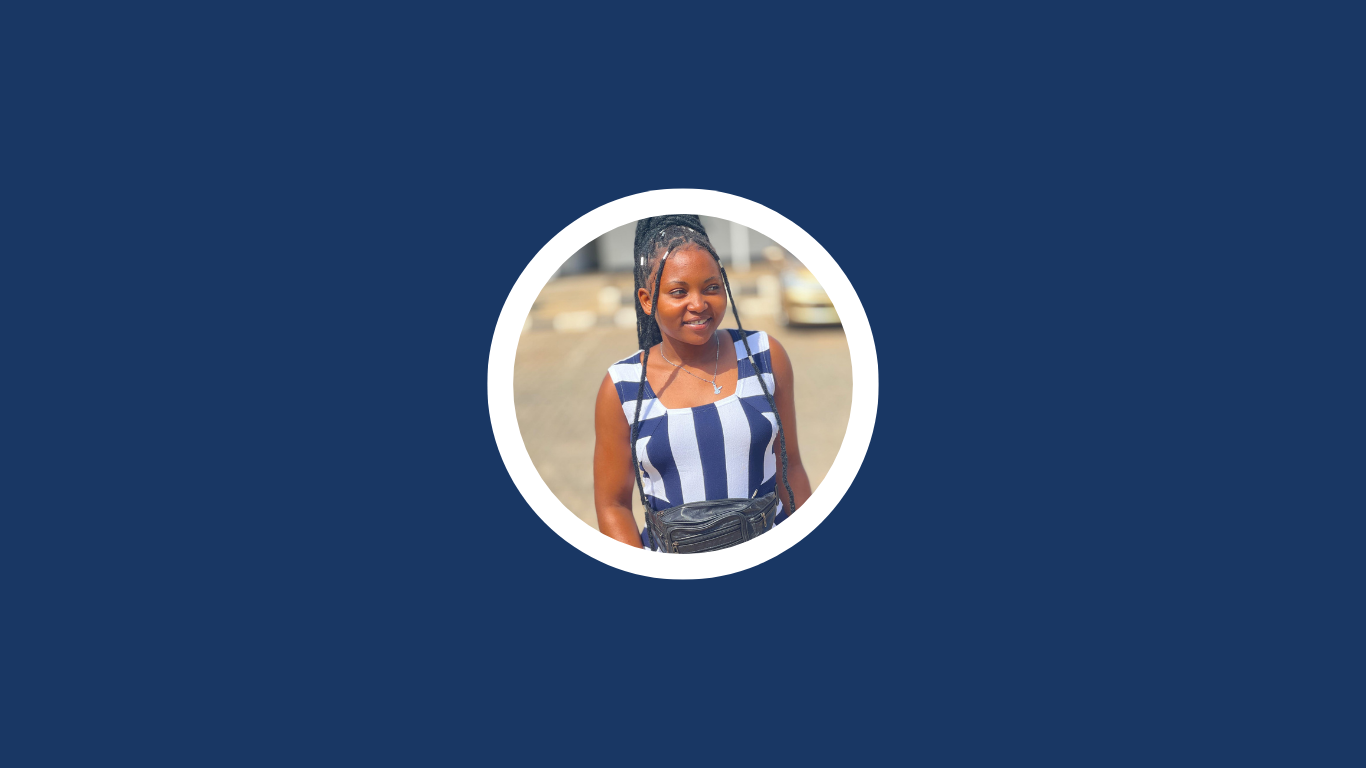
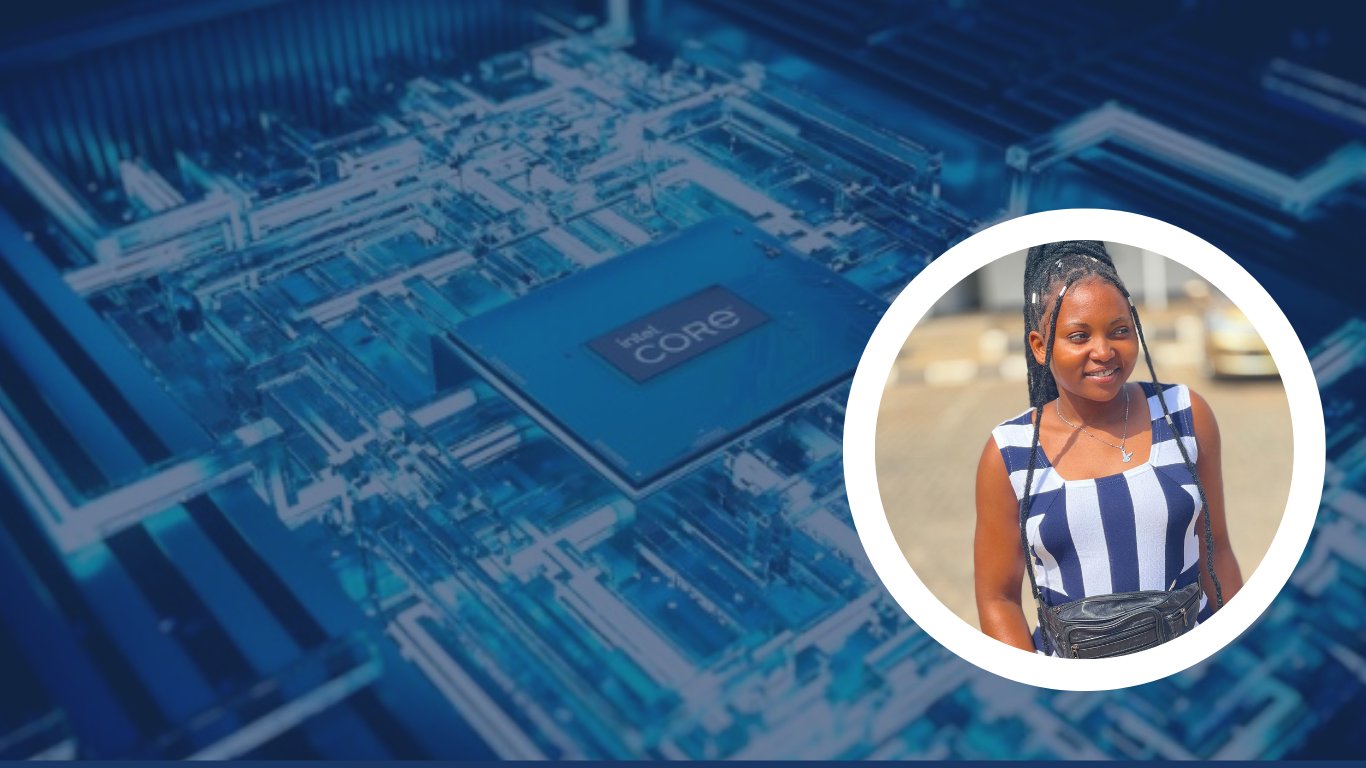
changed the styling of section 1 and the functionalities of the navigation elements

diff --git a/style.css b/style.css
@@ -4,34 +4,26 @@ body {
   font-family: Arial, Helvetica, sans-serif;
 }
 
-/* .first-screen-section {
-  height: 100vh;
-  background-image: url(images/background.png);
-  background-size: cover;
-  background-repeat: no-repeat;
-  background-position: center;
-  display: flex;
-  flex-direction: column;
-  justify-content: center;
-  
-} */
-
 .Hero-section {
   height: 100vh;
-  background-image: url(images/personal\ website.png);
+  background-image: url(images/page1.png);
   background-size: cover;
   background-repeat: no-repeat;
   background-position: center;
+  position: relative; /* Enables absolute nav */
   display: flex;
   flex-direction: column;
-  justify-content: space-between; /* Ensures top/middle/bottom layout */
-  padding: 40px 20px; /* Optional spacing */
+  justify-content: space-between;
   box-sizing: border-box;
 }
 
+/* Navigation stays at top */
 .main-nav {
+  position: absolute;
+  top: 20px;
+  right: 30px;
+  z-index: 10;
   text-align: right;
-  margin-top: 0px;
 }
 
 .main-nav a {
@@ -46,26 +38,38 @@ body {
   color: #4CAF50;
 }
 
+/* Wrapper for hero texts */
+.hero-text-wrapper {
+  display: flex;
+  flex-direction: column;
+  justify-content: center;
+  align-items: flex-start;
+  padding: 120px 20px 0 80px;
+  max-width: 700px;
+  box-sizing: border-box;
+}
+
+/* Bold and large h1 */
 .h1-of-section {
-  text-align: center;
+  text-align: left;
+  font-size: 5.2em;
+  font-weight: 700;
   color: white;
-  font-size: 2.5em;
-  margin-top: 0px;
-  margin-bottom: 0px;
-  
+  margin: 0 0 0.4em 0;
 }
 
-
-
-
+/* Clean multi-line h2 */
 .h2-of-section {
-  text-align: center;
+  text-align: left;
+  font-size: 3.2em;
+  font-weight: 400;
+  line-height: 1.4;
   color: white;
-  font-size: 1.5em;
-  margin-top: 0px;
-  margin-bottom: 300px;
+  margin: 0 0 2em 0;
+  white-space: pre-line;
 }
 
+/* Footer button stays at bottom */
 .bottom-buttons {
   width: 100%;
   display: flex;
@@ -73,6 +77,7 @@ body {
   padding: 30px 20px;
   box-sizing: border-box;
   background-color: transparent;
+  margin-top: auto;
 }
 
 .custom-btn {
@@ -89,6 +94,8 @@ body {
 .custom-btn:hover {
   background-color: #009e8a;
 }
+
+/* --- Unchanged rest of your original code --- */
 
 .section-divider {
   border: none;
@@ -114,11 +121,10 @@ body {
   color: white;
   font-size: 3.5em;
   margin: 0;
-  text-align: left; /* stays on the left */
+  text-align: left;
   align-self: flex-start;
 }
 
-/* Project list container + H2 heading */
 .h2-of-work-section,
 .project-list {
   color: white;
@@ -127,7 +133,6 @@ body {
   font-size: 1.5em;
 }
 
-/* Link styling inside project list */
 .project-list a {
   color: #0077cc;
   text-decoration: underline;
@@ -143,16 +148,13 @@ body {
   margin-top: 100px;
 }
 
-
-/* Apply consistent left padding to bullet list items */
 ul {
-  padding-left: 2rem; /* Adjust as needed for visual alignment */
-  list-style-position: outside; /* Keeps bullets outside content */
+  padding-left: 2rem;
+  list-style-position: outside;
   margin-top: 1rem;
   margin-bottom: 1rem;
 }
 
-/* Reset margins for nested lists if needed */
 ul ul {
   margin-left: 1rem;
   padding-left: 1rem;
@@ -167,10 +169,8 @@ li::before {
   content: '•';
   position: absolute;
   left: 0;
-  color: #333; /* Customize as needed */
+  color: #333;
 }
-
-
 
 .about-section {
   height: 100vh;
@@ -180,23 +180,16 @@ li::before {
   display: flex;
   flex-direction: column;
   justify-content: flex-start;
-  align-items: flex-start;         /* ✅ Aligns all children left */
-  padding: 200px 40px 40px 80px;    /* ✅ Top padding lifts everything upward */
+  align-items: flex-start;
+  padding: 200px 40px 40px 80px;
   box-sizing: border-box;
-  gap: 25px;                       /* ✅ Space between heading and paragraphs */
+  gap: 25px;
 }
-
-/* .h1-of-about-section {
-  color: white;
-  font-size: 2.5em;
-  margin: 0;
-  text-align: left;
-} */
 
 .h1-of-about-section {
   color: white;
   font-size: 3.5em;
-  margin: 0 0 20px 0;  /* top right bottom left */
+  margin: 0 0 20px 0;
   text-align: left;
 }
 
@@ -209,7 +202,6 @@ li::before {
 
 .contact-me-section {
   height: 100vh;
-  /* background-color: #193764;  */
   background-image: url(images/contact-section.png);
   display: flex;
   flex-direction: column;
@@ -282,22 +274,17 @@ li::before {
   transform: scale(1.1);
 }
 
-
-
-
 .resume-section {
   height: 100vh;
-  background-image: url('images/resume.png'); /* your frame image */
+  background-image: url('images/resume.png');
   background-size: cover;
   background-position: center;
   display: flex;
-  /* align-items: center; */
   justify-content: right;
   padding: 0 20px;
 }
 
 .resume-overlay {
-  /* background-color: rgba(10, 25, 60, 0.85); */
   padding: 40px;
   border-radius: 12px;
   max-width: 800px;
@@ -323,7 +310,8 @@ li::before {
   margin-bottom: 10px;
 }
 
-.resume-block p, .resume-block ul {
+.resume-block p,
+.resume-block ul {
   font-size: 1.1em;
   line-height: 1.6em;
   margin-bottom: 20px;
@@ -347,7 +335,7 @@ li::before {
   font-weight: bold;
   text-decoration: none;
   border-radius: 8px;
-  box-shadow: 0 2px 6px rgba(0,0,0,0.2);
+  box-shadow: 0 2px 6px rgba(0, 0, 0, 0.2);
   transition: background 0.3s ease;
   z-index: 10;
 }

diff --git a/index.HTML b/index.HTML
@@ -15,20 +15,22 @@
 
   <!-- First full-screen section -->
   <section class="Hero-section">
-    <nav class="main-nav">
-      <a href="#work-section">my work</a>
-      <a href="#about-section">About</a>
-      <a href="#contact-section">Contact</a>
-    </nav>
+  <nav class="main-nav">
+    <a href="#work-section">Home</a>
+    <a href="#about-section">About</a>
+    <a href="#contact-section">Contact</a>
+  </nav>
 
-    <h1 class="h1-of-section">Welcome to my page</h1>
-    <h2 class="h2-of-section">Louiser Kanyumbu, an upcoming computer engineer</h2>
+  <div class="hero-text-wrapper">
+    <h1 class="h1-of-section">welcome to my page</h1>
+    <h2 class="h2-of-section">  an upcoming computer engineer</h2>
 
     <footer class="bottom-buttons">
       <a href="resume.html" class="custom-btn">View My Resume</a>
-      <a href="about.html" class="custom-btn">About Me</a>
     </footer>
-  </section>
+  </div>
+</section>
+
 
   <!-- Divider line -->
   <hr class="section-divider" />
